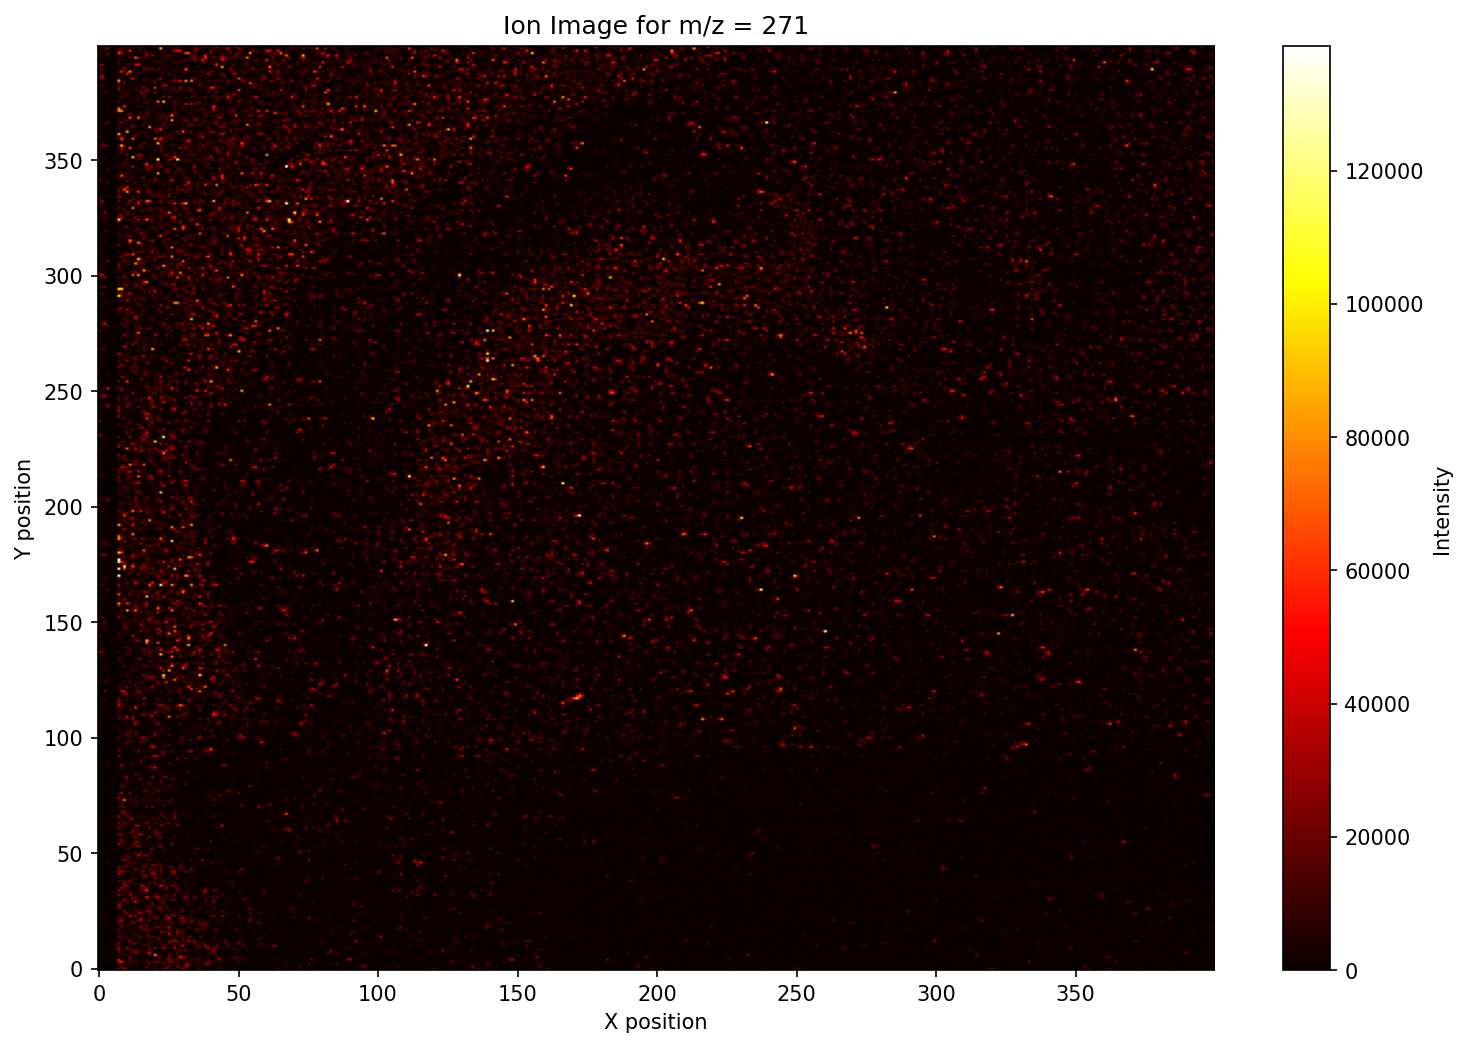
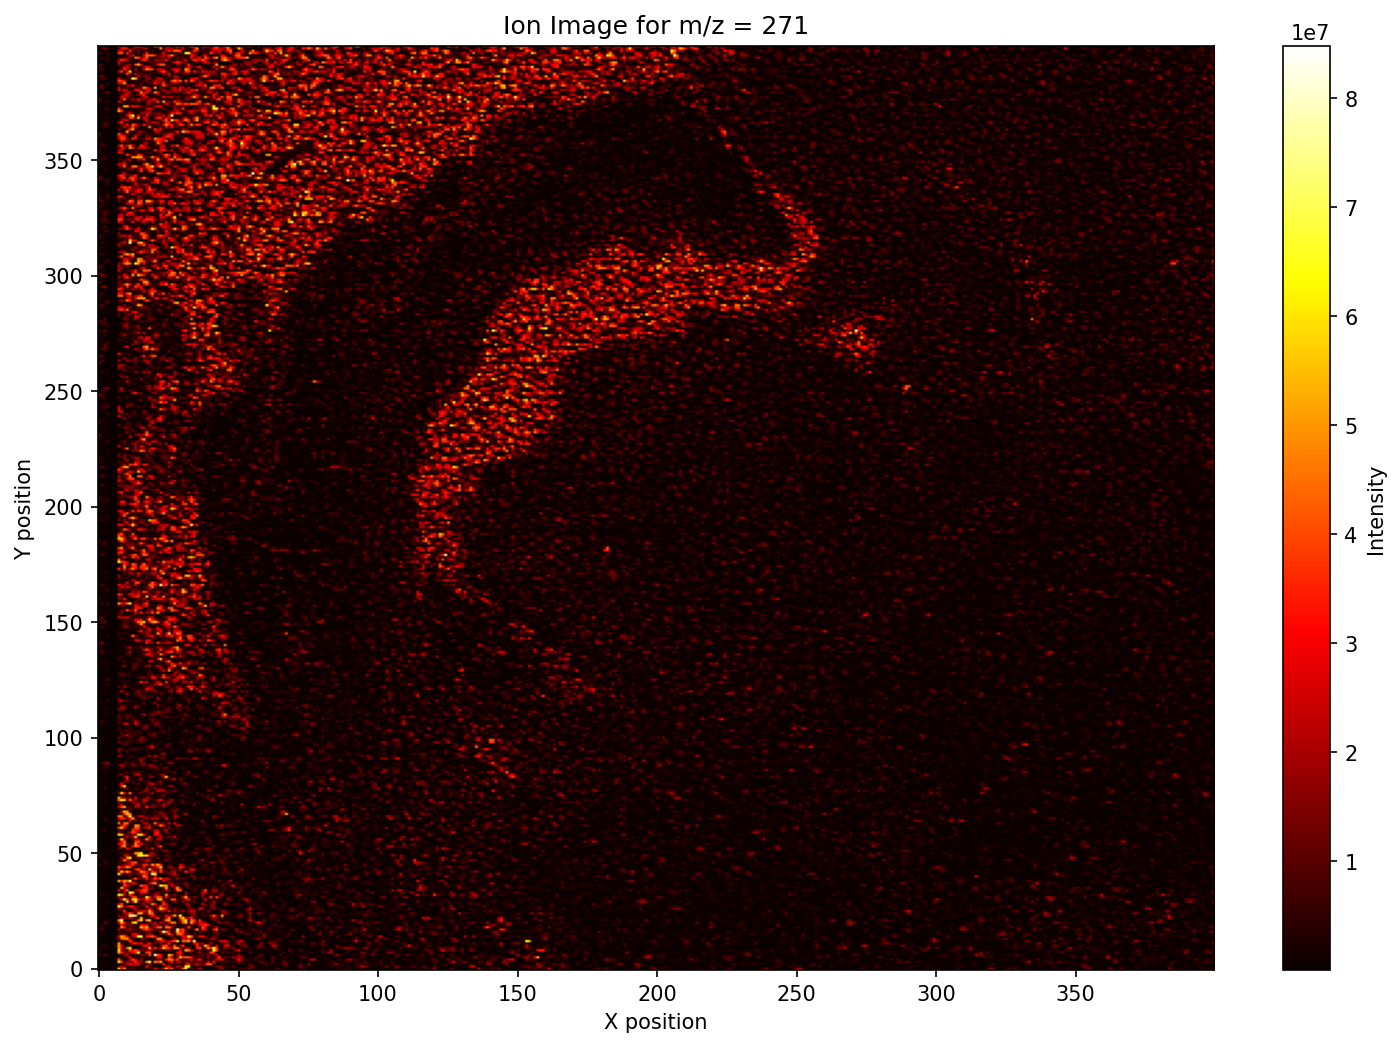
Failing trianing but done images

diff --git a/src/Openh5.py b/src/Openh5.py
@@ -7,7 +7,7 @@ import matplotlib.pyplot as plt
 import math
 
 
-def plot_image( file: h5py.File ,sorted_keys: list[int],mz : float,name: str ,shape ,output_dir: str,tolerance: float=0.02):
+def plot_image( file: h5py.File ,sorted_keys: list[int],mz : float,name: str ,shape ,output_dir: str,tolerance: float=100.02):
     img = np.zeros(shape)
     count = 0
     for index, key in enumerate(sorted_keys):
